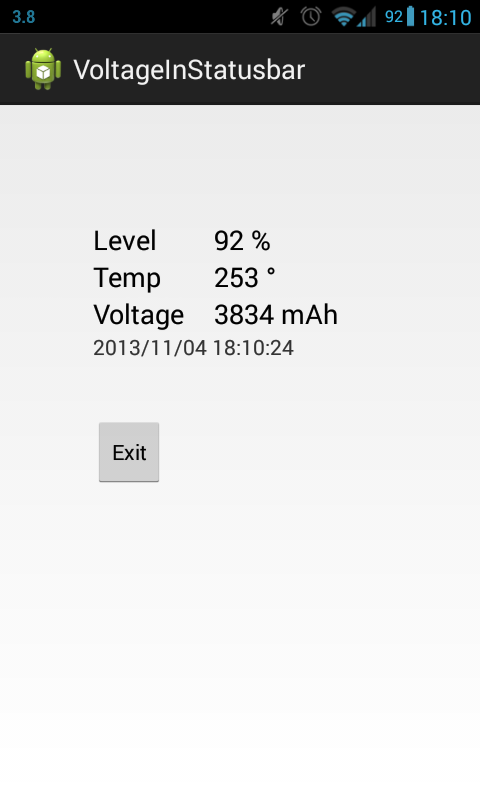
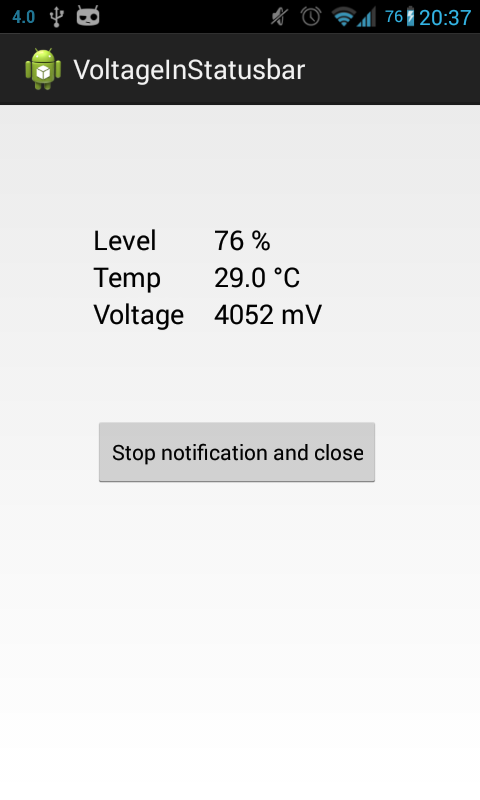
Fix some stuff

diff --git a/src/main/java/org/bweb/voltageinstatusbar/MainActivity.java b/src/main/java/org/bweb/voltageinstatusbar/MainActivity.java
@@ -30,69 +30,89 @@ import java.util.Date;
 
 public class MainActivity extends ActionBarActivity {
     private NotificationManager notifi;
+    private BatteryBroadcastReceiver brbr;
+    private IntentFilter filter;
     int scale = -1;
     int level = -1;
     int voltage = -1;
-    int temp = -1;
+    float temp = -1;
 
     @Override
     protected void onCreate(Bundle savedInstanceState) {
         super.onCreate(savedInstanceState);
         setContentView(R.layout.activity_main);
 
+        // UI elements
         final Button button1 = (Button) findViewById(R.id.button);
         final TextView textLevel = (TextView) findViewById(R.id.textViewLevel);
         final TextView textTemp = (TextView) findViewById(R.id.textViewTemp);
         final TextView textVolt = (TextView) findViewById(R.id.textViewVoltage);
         final TextView textTime = (TextView) findViewById(R.id.textViewTime);
-
         final DateFormat dateFormat = new SimpleDateFormat("yyyy/MM/dd HH:mm:ss");
 
+        // listen for battery broadcasts
         // http://stackoverflow.com/questions/9413490/notification-bar-information-about-battery
-        BatteryBroadcastReceiver brbr = new BatteryBroadcastReceiver(new BatteryBroadcastReceiver.BatteryBroadcastCallback() {
+        brbr = new BatteryBroadcastReceiver(new BatteryBroadcastReceiver.BatteryBroadcastCallback() {
             @Override
             public void onBatteryBroadcastReceived(Intent intent) {
                 Date date = new Date();
                 level = intent.getIntExtra(BatteryManager.EXTRA_LEVEL, -1);
                 scale = intent.getIntExtra(BatteryManager.EXTRA_SCALE, -1);
                 temp = intent.getIntExtra(BatteryManager.EXTRA_TEMPERATURE, -1);
+                temp = Math.round(temp/10);
                 voltage = intent.getIntExtra(BatteryManager.EXTRA_VOLTAGE, -1);
                 Log.i("BatteryManager", "level is " + level + "/" + scale + ", temp is " + temp + ", voltage is " + voltage);
-                //text1.setText("level is " + level + "/" + scale + ", temp is " + temp + ", voltage is " + voltage);
                 textLevel.setText(""+level+" %");
-                textTemp.setText(""+temp+" °");
-                textVolt.setText(""+voltage+" mAh");
+                textTemp.setText(""+temp+" °C");
+                textVolt.setText(""+voltage+" mV");
                 textTime.setText(dateFormat.format(date));
                 notif(voltage);
             }
         });
-        IntentFilter filter = new IntentFilter(Intent.ACTION_BATTERY_CHANGED);
+        filter = new IntentFilter(Intent.ACTION_BATTERY_CHANGED);
         registerReceiver(brbr, filter);
 
+        // stop notification & exit
         button1.setOnClickListener(
                 new View.OnClickListener() {
                     @Override
                     public void onClick(View v) {
+                        notifi.cancelAll();
                         finish();
                     }
                 }
         );
     }
 
+    @Override
+    public void onPause() {
+        super.onPause();
+        unregisterReceiver(brbr);
+    }
+    @Override
+    public void onResume() {
+        super.onResume();
+        registerReceiver(brbr, filter);
+    }
+
+    // generate and display notification
     public void notif(int voltage) {
         // http://stackoverflow.com/questions/15853162/creating-dynamic-r-drawable-source-and-imageview
         String packageName = getPackageName();
         notifi = (NotificationManager)getSystemService(Context.NOTIFICATION_SERVICE);
 
+        // get Intent reference, so tap on notification brings us back to app
         Intent i = new Intent(this, MainActivity.class);
         PendingIntent penInt = PendingIntent.getActivity(getApplicationContext(), 0 , i , 0);
 
+        // generate id from voltage and find image file for notification icon
         int voltage_for_icon = (int)Math.round(voltage / 100);
         int resid = getResources().getIdentifier("v" + voltage_for_icon, "drawable", packageName);
 
+        // define notification
         Notification notification = new NotificationCompat.Builder(getApplicationContext())
-                .setContentTitle("Currently " + voltage + " mAh")
-                .setContentText("Battery voltage")
+                .setContentTitle("Battery voltage")
+                .setContentText("Currently " + voltage + " mV")
                 .setSmallIcon(resid)
                 .setOngoing(true)
                 .setContentIntent(penInt)

diff --git a/src/main/java/org/bweb/voltageinstatusbar/BatteryBroadcastReceiver.java b/src/main/java/org/bweb/voltageinstatusbar/BatteryBroadcastReceiver.java
@@ -15,7 +15,7 @@ public class BatteryBroadcastReceiver extends BroadcastReceiver {
     private BatteryBroadcastCallback callback;
 
     public BatteryBroadcastReceiver() {
-
+        // nothing
     }
 
     public interface BatteryBroadcastCallback {
